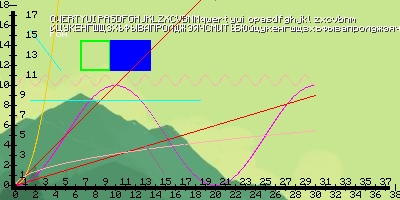
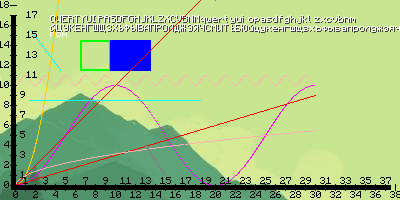
drawRectWH & finished rewriting x/y axis

Changed region(s): [[0.03, 0.87, 0.99, 0.93], [0.03, 0.06, 0.06, 0.09]]

diff --git a/src/main/java/the/kis/devs/g2i/Main.java b/src/main/java/the/kis/devs/g2i/Main.java
@@ -156,6 +156,9 @@ public class Main {
             {
                 int axisLength = width - axisOffset * 2 - axisWidth;
 
+                drawRect(axisOffset + 1, height - axisOffset - 1, width - axisOffset, height - axisOffset - axisWidth/* + 1*/, Color.BLACK.getRGB(), true, 1);
+
+
                 for (
                         int i = 0;
                         i <= axisLength;
@@ -164,7 +167,7 @@ public class Main {
                     int section = i * singleSection;
                     int x = axisOffset + axisWidth + section;
 
-                    drawString(String.valueOf(i), x - FontRenderer.getWidth(String.valueOf(i)) / 2, height - axisOffset + 1 - (i % 2 == 0 ? 0 : /*-1 + */axisWidth + FontRenderer.CHAR_SIZE), Color.BLACK.getRGB(), false);
+                    drawString(String.valueOf(i), x - FontRenderer.getWidth(String.valueOf(i)) / 2, height - axisOffset + 1 - (i % 2 == 0 ? 0 : /*-1 + */axisWidth + FontRenderer.CHAR_SIZE + 1), Color.BLACK.getRGB(), false);
                     drawLine2(x, height - axisOffset - axisWidth - 1, x, height - axisOffset, Color.BLACK.getRGB());
                 }
             }
@@ -172,6 +175,8 @@ public class Main {
             //Y axis
             {
                 int axisLength = height - axisOffset * 2 - axisWidth;
+
+                drawRect(axisOffset + 1, height - axisOffset - 1, axisOffset + axisWidth, axisOffset + axisWidth, Color.BLACK.getRGB(), true, 1);
 
                 for (
                         int i = 0;
@@ -182,7 +187,7 @@ public class Main {
                     int y = height - axisOffset - axisWidth - section;//axisOffset + axisWidth + section;
 
                     drawString(String.valueOf(i), axisOffset + (i % 2 == 0 ? -FontRenderer.getWidth(String.valueOf(i)) : axisWidth + FontRenderer.getWidth(String.valueOf(i)) + 1) - 1, y - FontRenderer.CHAR_SIZE / 2, Color.BLACK.getRGB(), false);
-                    drawLine2(axisOffset - 1, y, axisOffset + axisWidth + 1, y, Color.BLACK.getRGB());
+                    drawLine2(axisOffset, y, axisOffset + axisWidth + 1, y, Color.BLACK.getRGB());
                 }
             }
         }
@@ -226,6 +231,10 @@ public class Main {
 
     public static void drawLine3(int x1, int y1, int x2, int y2, int color) {
         line3(x1, y1, x2, y2).forEach(point -> points.put(point, color));
+    }
+
+    public static void drawRectWH(int x, int y, int w, int h, int color, boolean filled, int outlineWidth) {
+        drawRect(x, y, x + w, y + h, color, filled, outlineWidth);
     }
 
     public static void drawRect(int x1, int y1, int x2, int y2, int color, boolean filled, int outlineWidth) {
@@ -333,20 +342,6 @@ public class Main {
                     y < height;
                     y++
             ) {
-                {
-                    if(x > axisOffset && x < axisOffset + axisWidth && y > axisOffset && y < height - axisOffset) {
-                        image.setRGB(x, y, Color.BLACK.getRGB());
-                        continue;
-                    }
-                }
-
-                {
-                    if(x > axisOffset && x < width - axisOffset && y > height - axisOffset - axisWidth && y < height - axisOffset) {
-                        image.setRGB(x, y, Color.BLACK.getRGB());
-                        continue;
-                    }
-                }
-
                 {
                     if(points.containsKey(new Pair<>(x, y))) {
                         image.setRGB(x, y, points.get(new Pair<>(x, y)));
